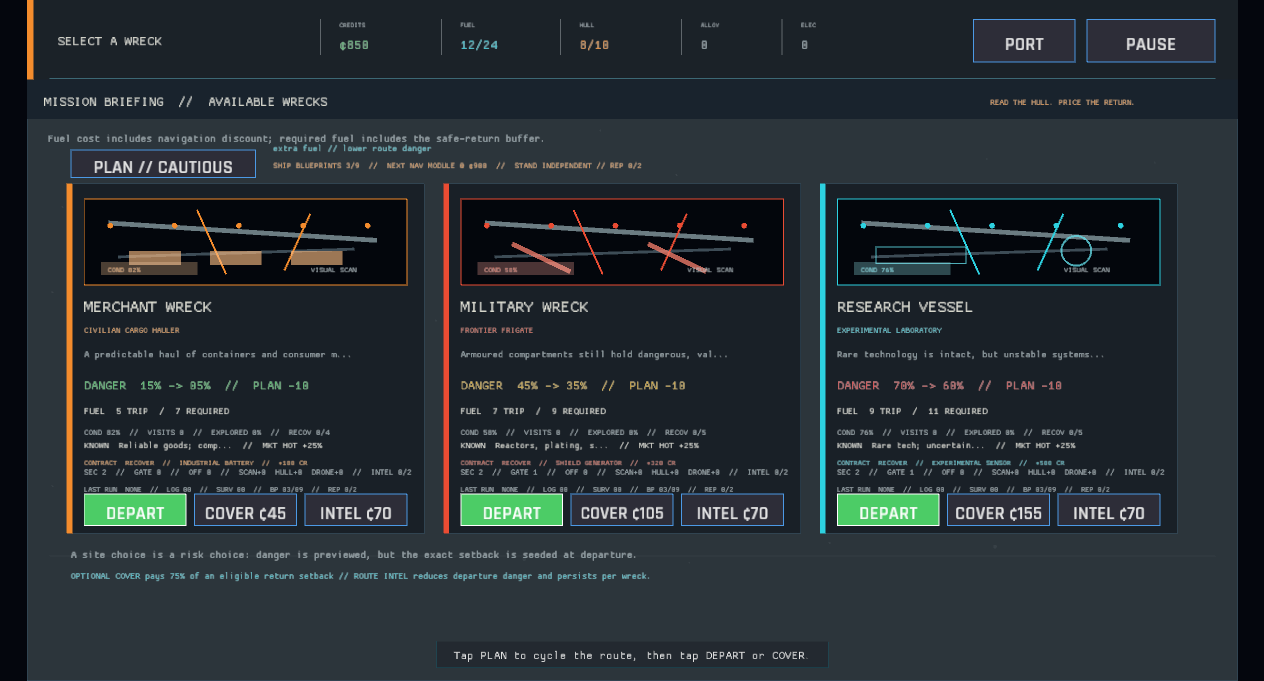
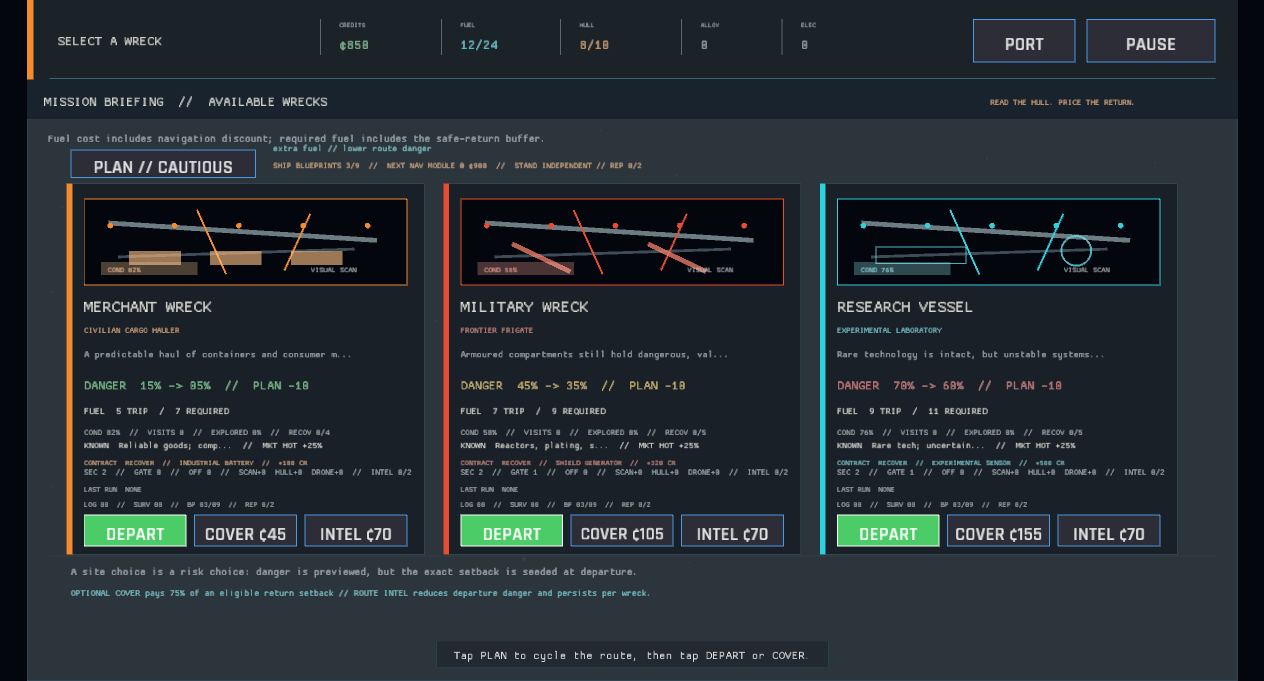
The briefing remembers the fuel home (mission history return-fuel readout)
Mission cards already carried last-run memory into the next departure, but the reserved homeward burn was missing and the compact history line was crowded. This pass gives the cards a readable two-row memory block, keeps the returned value visible, and adds the exact return fuel to the completed run. Capture fixtures and verification scenes now exercise both empty and completed histories.

Changed region(s): [[0.0309, 0.7093, 0.6171, 0.8943], [0.6479, 0.7093, 0.9256, 0.8018]]

diff --git a/src/ui/site_cards.rs b/src/ui/site_cards.rs
@@ -64,12 +64,12 @@ pub fn draw_site_selection(ctx: &UiContext<'_>, actions: &mut Vec<UiAction>) {
 
     for (index, site) in ctx.data.ordered_sites().into_iter().enumerate() {
         let x = 42.0 + index as f32 * 398.0;
-        draw_site_card(ctx, actions, site, Rect::new(x, 194.0, 378.0, 370.0));
+        draw_site_card(ctx, actions, site, Rect::new(x, 194.0, 378.0, 392.0));
     }
     draw_text(
         "A site choice is a risk choice: danger is previewed, but the exact setback is seeded at departure.",
         46.0,
-        590.0,
+        608.0,
         14.0,
         visual_theme::text_dim(),
     );
@@ -79,7 +79,7 @@ pub fn draw_site_selection(ctx: &UiContext<'_>, actions: &mut Vec<UiAction>) {
             ctx.data.config.insurance.coverage_percent,
         ),
         46.0,
-        612.0,
+        630.0,
         12.0,
         visual_theme::cyan(),
     );
@@ -294,14 +294,7 @@ fn draw_site_card(
     let total_blueprints = ctx.data.modules.iter().count();
     let standing_progress = site_standing_progress_label(ctx.session);
     draw_text(
-        site_last_run_label(
-            last_run,
-            log_count,
-            survey_count,
-            unlocked_blueprints,
-            total_blueprints,
-            &standing_progress,
-        ),
+        clipped(&site_last_run_label(last_run), 56),
         rect.x + 18.0,
         rect.y + 326.0,
         10.0,
@@ -312,6 +305,23 @@ fn draw_site_card(
                 visual_theme::warning()
             }
         }),
+    );
+    draw_text(
+        clipped(
+            &site_last_run_memory_label(
+                last_run,
+                log_count,
+                survey_count,
+                unlocked_blueprints,
+                total_blueprints,
+                &standing_progress,
+            ),
+            64,
+        ),
+        rect.x + 18.0,
+        rect.y + 342.0,
+        10.0,
+        visual_theme::text_dim(),
     );
     let can_depart = ctx
         .session
@@ -369,6 +379,37 @@ fn draw_site_card(
     }
 }
 
+fn site_last_run_label(last_run: Option<&VoyageRecord>) -> String {
+    last_run.map_or_else(
+        || "LAST RUN  NONE".to_owned(),
+        |record| {
+            format!(
+                "LAST {}  //  TGT {}  //  HOME {} FUEL",
+                risk_label(record.risk_outcome),
+                record.recovered_count,
+                record.return_fuel,
+            )
+        },
+    )
+}
+
+fn site_last_run_memory_label(
+    last_run: Option<&VoyageRecord>,
+    log_count: usize,
+    survey_count: usize,
+    unlocked_blueprints: usize,
+    total_blueprints: usize,
+    standing_progress: &str,
+) -> String {
+    let progress = format!(
+        "LOG {:02}  //  SURV {:02}  //  BP {:02}/{:02}  //  {}",
+        log_count, survey_count, unlocked_blueprints, total_blueprints, standing_progress
+    );
+    last_run.map_or(progress.clone(), |record| {
+        format!("VALUE ¢{}  //  {progress}", record.recovered_value)
+    })
+}
+
 fn insurance_button_label(
     quote: Option<crate::engine::InsuranceQuote>,
     can_depart: bool,
@@ -407,32 +448,6 @@ fn site_reconnaissance_label(session: &GameSession, site_id: &str, data: &GameDa
     let level = session.reconnaissance_level(site_id);
     let max = data.config.reconnaissance.max_level;
     format!("INTEL {level}/{max}")
-}
-
-fn site_last_run_label(
-    last_run: Option<&VoyageRecord>,
-    log_count: usize,
-    survey_count: usize,
-    unlocked_blueprints: usize,
-    total_blueprints: usize,
-    standing_progress: &str,
-) -> String {
-    let blueprint_label = format!("BP {unlocked_blueprints:02}/{total_blueprints:02}");
-    last_run.map_or_else(
-        || format!("LAST RUN  NONE  //  LOG {log_count:02}  //  SURV {survey_count:02}  //  {blueprint_label}  //  {standing_progress}"),
-        |record| {
-            format!(
-                "LAST {}  //  TGT {}  //  ¢{}  //  LOG {:02}  //  SURV {:02}  //  {}  //  {}",
-                risk_label(record.risk_outcome),
-                record.recovered_count,
-                record.recovered_value,
-                log_count,
-                survey_count,
-                blueprint_label,
-                standing_progress,
-            )
-        },
-    )
 }
 
 fn site_standing_progress_label(session: &GameSession) -> String {

diff --git a/src/ui/site_cards/tests.rs b/src/ui/site_cards/tests.rs
@@ -14,11 +14,13 @@ fn mission_briefing_names_the_next_ship_blueprint() {
 
 #[test]
 fn mission_briefing_keeps_blueprints_on_empty_last_run_line() {
-    let label = site_last_run_label(None, 0, 0, 3, 9, "REP 0/2");
+    let label = site_last_run_label(None);
+    let memory_label = site_last_run_memory_label(None, 0, 0, 3, 9, "REP 0/2");
 
+    assert_eq!(label, "LAST RUN  NONE");
     assert_eq!(
-        label,
-        "LAST RUN  NONE  //  LOG 00  //  SURV 00  //  BP 03/09  //  REP 0/2"
+        memory_label,
+        "LOG 00  //  SURV 00  //  BP 03/09  //  REP 0/2"
     );
 }
 
@@ -45,11 +47,13 @@ fn mission_briefing_keeps_blueprints_on_completed_last_run_line() {
         insurance_premium: 0,
         insurance_payout: 0,
     };
-    let label = site_last_run_label(Some(&record), 4, 3, 5, 9, "REP 4/7");
+    let label = site_last_run_label(Some(&record));
+    let memory_label = site_last_run_memory_label(Some(&record), 4, 3, 5, 9, "REP 4/7");
 
+    assert_eq!(label, "LAST ORDINARY RETURN  //  TGT 2  //  HOME 2 FUEL");
     assert_eq!(
-        label,
-        "LAST ORDINARY RETURN  //  TGT 2  //  ¢250  //  LOG 04  //  SURV 03  //  BP 05/09  //  REP 4/7"
+        memory_label,
+        "VALUE ¢250  //  LOG 04  //  SURV 03  //  BP 05/09  //  REP 4/7"
     );
 }
 

diff --git a/src/game/capture.rs b/src/game/capture.rs
@@ -246,6 +246,27 @@ impl Game {
                         ),
                     ];
                 }
+                self.session.voyage_log = vec![VoyageRecord {
+                    site_id: "merchant_wreck".to_owned(),
+                    recovered_count: 2,
+                    recovered_value: 250,
+                    recovered_alloy: 5,
+                    recovered_electronics: 2,
+                    external_load: 0,
+                    risk_outcome: RiskOutcome::OrdinaryReturn,
+                    danger_score: 15,
+                    reconnaissance_level: 1,
+                    voyage_plan: crate::engine::VoyagePlan::Cautious,
+                    contract_completed: true,
+                    contract_failed: false,
+                    scan_profile: WorkspaceScanProfile::Array,
+                    condition_after: 64,
+                    return_fuel: 2,
+                    market_cycle: 0,
+                    insured: false,
+                    insurance_premium: 0,
+                    insurance_payout: 0,
+                }];
                 GameState::SiteSelection
             }
             "travel" => {
